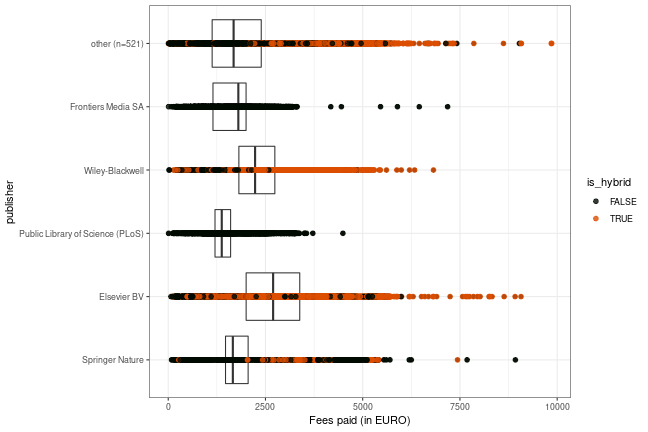
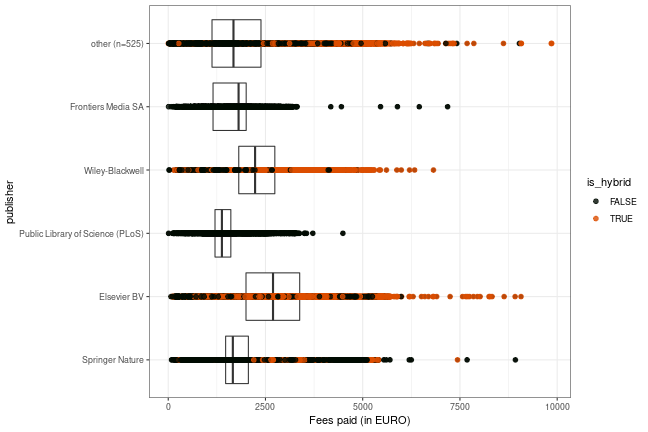
post: fu berlin apc data 2019

diff --git a/about.md b/about.md
@@ -344,13 +344,13 @@ Jisc Collections released data on APC payments made by UK higher education insti
 
 Information on both open access journal articles and open access publication of articles in toll-access journals ("hybrid") are provided.
 
-In total,  195 152 601 € for  98 575 articles were paid by the participating unviversities. Average  fee is 1 979.7 € and the median 1 783 €.
+In total,  197 673 136 € for  99 977 articles were paid by the participating unviversities. Average  fee is 1 977.2 € and the median 1 780 €.
 
 ### Open Access Journals
 
 
 
-At the moment, the dataset releases information on 56 738 articles in open access journals which charge publication fees. Total expenditure amounts to  90 563 440 €. Average  fee is 1 596.2 € and the median 1 503 €.
+At the moment, the dataset releases information on 57 990 articles in open access journals which charge publication fees. Total expenditure amounts to  92 772 838 €. Average  fee is 1 599.8 € and the median 1 504 €.
 
 View dataset on [GitHub](https://github.com/OpenAPC/openapc-de/blob/master/data/apc_de.csv).
 
@@ -365,21 +365,22 @@ View dataset on [GitHub](https://github.com/OpenAPC/openapc-de/blob/master/data/
 |Bangor University                                                    |       20|            33,800|         1,690|  1,572|
 |Bayreuth U                                                           |      211|           255,626|         1,212|  1,266|
 |Bergen University College                                            |       13|            19,984|         1,537|  1,713|
-|Bern University of Applied Sciences                                  |       11|            16,386|         1,490|  1,364|
+|Bern University of Applied Sciences                                  |       10|            14,141|         1,414|  1,357|
 |BI Norwegian Business School                                         |        4|             2,761|           690|    724|
-|Bielefeld U                                                          |      649|           885,087|         1,364|  1,396|
+|Bielefeld U                                                          |      666|           913,220|         1,371|  1,396|
 |Bochum U                                                             |      305|           459,765|         1,507|  1,576|
 |Bremen U                                                             |      634|           946,703|         1,493|  1,428|
 |Brunel University                                                    |      214|           293,529|         1,372|  1,341|
 |Cardiff University                                                   |      507|           929,040|         1,832|  1,643|
 |Chalmers University of Technology                                    |        6|             5,817|           970|  1,012|
 |Charité - Universitätsmedizin Berlin                                 |      235|           386,319|         1,644|  1,656|
-|Charles University                                                   |      434|           605,334|         1,395|  1,493|
+|Charles University                                                   |      434|           606,139|         1,397|  1,495|
 |CIRAD                                                                |       78|           119,540|         1,533|  1,507|
-|CNRS                                                                 |    1,479|         2,367,891|         1,601|  1,368|
+|CNRS                                                                 |    1,478|         2,365,566|         1,601|  1,365|
 |Commissariat à l'énergie atomique et aux énergies alternatives (CEA) |       75|           135,506|         1,807|  1,538|
 |Cranfield University                                                 |       26|            40,286|         1,549|  1,370|
 |Dalarna University                                                   |       50|            70,423|         1,408|  1,493|
+|DLR                                                                  |      110|           136,288|         1,239|  1,154|
 |Dortmund TU                                                          |       82|           102,584|         1,251|  1,391|
 |Duisburg-Essen U                                                     |      235|           320,066|         1,362|  1,276|
 |Ecole normale supérieure de Paris                                    |       16|            35,538|         2,221|  2,027|
@@ -388,10 +389,10 @@ View dataset on [GitHub](https://github.com/OpenAPC/openapc-de/blob/master/data/
 |ESPCI Paris                                                          |       10|            18,132|         1,813|  1,404|
 |Frankfurt U                                                          |      175|           302,577|         1,729|  1,630|
 |Fraunhofer-Gesellschaft Publishing Fund                              |       94|           123,235|         1,311|  1,323|
-|Free University of Bozen-Bolzano                                     |       11|             8,709|           792|    561|
+|Free University of Bozen-Bolzano                                     |       36|            50,822|         1,412|  1,435|
 |Freiburg U                                                           |      949|         1,380,528|         1,455|  1,525|
 |Fridtjof Nansen Institute                                            |        4|             5,062|         1,265|  1,303|
-|FU Berlin                                                            |      410|           604,491|         1,474|  1,570|
+|FU Berlin                                                            |      509|           742,537|         1,459|  1,567|
 |FWF - Austrian Science Fund                                          |    1,797|         3,060,336|         1,703|  1,566|
 |FZJ - ZB                                                             |      569|           794,874|         1,397|  1,302|
 |GenØk - Centre for Biosafety                                         |        5|             5,295|         1,059|  1,109|
@@ -418,22 +419,22 @@ View dataset on [GitHub](https://github.com/OpenAPC/openapc-de/blob/master/data/
 |Indiana University - Purdue University Indianapolis (IUPUI)          |      114|           166,599|         1,461|  1,362|
 |INM - Leibniz-Institut für Neue Materialien                          |        5|             5,744|         1,149|  1,305|
 |Innlandet Hospital Trust                                             |        3|             5,174|         1,725|  1,917|
-|INRA                                                                 |      124|           202,035|         1,629|  1,405|
+|INRA                                                                 |      122|           199,052|         1,632|  1,405|
 |INRIA                                                                |       77|           118,761|         1,542|  1,538|
 |INSERM                                                               |      932|         1,688,754|         1,812|  1,500|
 |Institut de recherche pour le développement (IRD)                    |       65|            87,702|         1,349|  1,316|
 |Institut für Arbeitsmarkt- und Berufsforschung                       |        1|             1,076|         1,076|  1,076|
 |Institut national polytechnique de Toulouse                          |       10|            12,710|         1,271|  1,170|
+|Institut Pasteur                                                     |       99|           193,381|         1,953|  1,848|
 |Institute of Cancer Research                                         |       20|            43,133|         2,157|  1,673|
 |Institute of Marine Research                                         |       14|            20,153|         1,440|  1,404|
-|IPN - Leibniz Kiel                                                   |       13|            14,201|         1,092|  1,092|
+|IPN - Leibniz Kiel                                                   |       19|            22,810|         1,201|  1,092|
 |IRSTEA                                                               |       21|            27,516|         1,310|  1,495|
 |IST Austria                                                          |       28|            72,505|         2,589|  1,989|
 |JGU Mainz                                                            |      536|           767,445|         1,432|  1,479|
-|Jyväskylä U                                                          |       26|            42,283|         1,626|  1,569|
 |Karlstad University                                                  |       51|            57,319|         1,124|  1,157|
 |Karolinska Institutet                                                |        8|             5,073|           634|    755|
-|Kassel U                                                             |      130|           145,386|         1,118|  1,105|
+|Kassel U                                                             |      192|           226,473|         1,180|  1,178|
 |Keele University                                                     |       19|            31,431|         1,654|  1,644|
 |King's College London                                                |      589|         1,210,026|         2,054|  1,642|
 |KIT                                                                  |      833|         1,136,712|         1,365|  1,386|
@@ -464,7 +465,7 @@ View dataset on [GitHub](https://github.com/OpenAPC/openapc-de/blob/master/data/
 |MLU Halle-Wittenberg                                                 |       77|           143,472|         1,863|  1,713|
 |Molde University College                                             |        3|             1,876|           625|    584|
 |MPG                                                                  |    3,674|         4,987,088|         1,357|  1,207|
-|Muenchen LMU                                                         |      558|           792,468|         1,420|  1,471|
+|Muenchen LMU                                                         |      649|           955,331|         1,472|  1,529|
 |Münster U                                                            |      467|           596,568|         1,277|  1,230|
 |Museum National d'Histoire Naturelle                                 |       10|            13,753|         1,375|  1,307|
 |Nansen Environmental and Remote Sensing Center                       |        6|             5,298|           883|    775|
@@ -508,12 +509,12 @@ View dataset on [GitHub](https://github.com/OpenAPC/openapc-de/blob/master/data/
 |Swansea University                                                   |       73|           125,868|         1,724|  1,494|
 |Swedish School of Sport and Health Sciences                          |        8|            13,276|         1,660|  1,422|
 |Swedish University of Agricultural Sciences                          |      590|           791,488|         1,342|  1,338|
-|Swiss National Science Foundation (SNSF)                             |      643|         1,288,583|         2,004|  1,603|
+|Swiss National Science Foundation (SNSF)                             |    1,125|         2,351,601|         2,090|  1,696|
 |Tampere University                                                   |       56|            79,937|         1,427|  1,445|
 |TH Wildau                                                            |       12|            14,275|         1,190|  1,288|
 |The Open University                                                  |        8|            16,623|         2,078|  1,856|
 |TIB                                                                  |        1|             1,619|         1,619|  1,619|
-|TiHo Hannover                                                        |      218|           315,780|         1,449|  1,428|
+|TiHo Hannover                                                        |      326|           491,027|         1,506|  1,518|
 |Trier U                                                              |       26|            40,483|         1,557|  1,572|
 |TU Berlin                                                            |       90|           118,840|         1,320|  1,382|
 |TU Braunschweig                                                      |       97|           116,277|         1,199|  1,232|
@@ -521,7 +522,7 @@ View dataset on [GitHub](https://github.com/OpenAPC/openapc-de/blob/master/data/
 |TU Clausthal                                                         |       31|            33,085|         1,067|  1,044|
 |TU Darmstadt                                                         |       75|            92,365|         1,232|  1,307|
 |TU Dresden                                                           |      548|           684,661|         1,249|  1,386|
-|TU Ilmenau                                                           |       55|            66,566|         1,210|  1,285|
+|TU Ilmenau                                                           |       76|            96,118|         1,265|  1,418|
 |TU Muenchen                                                          |    1,224|         1,663,430|         1,359|  1,479|
 |TU Wien                                                              |       79|           106,006|         1,342|  1,333|
 |Tuebingen U                                                          |      789|         1,114,397|         1,412|  1,442|
@@ -530,7 +531,7 @@ View dataset on [GitHub](https://github.com/OpenAPC/openapc-de/blob/master/data/
 |Ulm U                                                                |      314|           516,999|         1,646|  1,569|
 |Umeå University                                                      |       10|            10,604|         1,060|    755|
 |Uni Research                                                         |       19|            28,070|         1,477|  1,474|
-|Universitat de Barcelona                                             |      464|           443,269|           955|    899|
+|Universitat de Barcelona                                             |      563|           538,552|           957|    942|
 |Université Claude Bernard Lyon 1                                     |       30|            57,493|         1,916|  1,723|
 |Université Clermont Auvergne                                         |       81|           134,931|         1,666|  1,370|
 |Université d'Angers                                                  |        8|            11,313|         1,414|  1,779|
@@ -581,6 +582,7 @@ View dataset on [GitHub](https://github.com/OpenAPC/openapc-de/blob/master/data/
 |University of Gothenburg                                             |      554|           847,167|         1,529|  1,409|
 |University of Huddersfield                                           |       26|            34,920|         1,343|  1,532|
 |University of Hull                                                   |       15|            22,353|         1,490|  1,437|
+|University of Jyväskylä                                              |       63|           104,810|         1,664|  1,636|
 |University of Kent                                                   |       21|            42,591|         2,028|  1,573|
 |University of Leeds                                                  |      166|           317,217|         1,911|  1,579|
 |University of Leicester                                              |       52|            86,831|         1,670|  1,652|
@@ -622,7 +624,7 @@ View dataset on [GitHub](https://github.com/OpenAPC/openapc-de/blob/master/data/
 
 
 In many toll-access journals some of the articles are open access after a fee has been paid. This model is often called "hybrid open access".
-The dataset covers 41 837 hybrid open access articles. Total expenditure amounts to  104 589 160 €. Average  fee is 2 499.9 € and the median 2 454 €.
+The dataset covers 41 987 hybrid open access articles. Total expenditure amounts to  104 900 298 €. Average  fee is 2 498.4 € and the median 2 454 €.
 
 The following institutions have contributed its expenditures for hybrid open access.
 
@@ -638,19 +640,20 @@ The following institutions have contributed its expenditures for hybrid open acc
 |Brunel University                                                    |      415|           895,868|         2,159|  2,224|
 |Cardiff University                                                   |    1,044|         2,591,509|         2,482|  2,545|
 |Chalmers University of Technology                                    |        7|            16,723|         2,389|  2,429|
-|Charles University                                                   |       55|           112,032|         2,037|  2,271|
+|Charles University                                                   |       54|           111,515|         2,065|  2,292|
 |CIRAD                                                                |       24|            44,290|         1,845|  2,200|
 |CNRS                                                                 |      250|           561,237|         2,245|  2,200|
 |Commissariat à l'énergie atomique et aux énergies alternatives (CEA) |       12|            28,769|         2,397|  2,640|
 |Cranfield University                                                 |      131|           377,858|         2,884|  3,231|
 |Dalarna University                                                   |       40|            95,962|         2,399|  2,435|
+|DLR                                                                  |       51|            94,309|         1,849|  1,998|
 |Dortmund TU                                                          |        1|             1,581|         1,581|  1,581|
 |Duisburg-Essen U                                                     |        9|            23,845|         2,649|  2,618|
 |Ecole normale supérieure de Paris                                    |        4|            17,077|         4,269|  2,909|
 |Edinburgh Napier University                                          |        1|             3,155|         3,155|  3,155|
 |Erlangen Nuernberg U                                                 |        1|             1,638|         1,638|  1,638|
 |ESPCI Paris                                                          |        3|             5,574|         1,858|  2,160|
-|Free University of Bozen-Bolzano                                     |       12|            26,122|         2,177|  2,396|
+|Free University of Bozen-Bolzano                                     |       21|            47,214|         2,248|  2,489|
 |FU Berlin                                                            |        2|             3,285|         1,643|  1,643|
 |FWF - Austrian Science Fund                                          |    4,197|        10,385,212|         2,474|  2,618|
 |FZJ - ZB                                                             |      127|           261,027|         2,055|  2,000|
@@ -674,11 +677,11 @@ The following institutions have contributed its expenditures for hybrid open acc
 |INSERM                                                               |      145|           339,548|         2,342|  2,350|
 |Institut de recherche pour le développement (IRD)                    |        5|             6,375|         1,275|    440|
 |Institut für Arbeitsmarkt- und Berufsforschung                       |       10|            25,816|         2,582|  2,618|
+|Institut Pasteur                                                     |       24|            50,985|         2,124|  2,370|
 |Institute of Cancer Research                                         |       67|           206,220|         3,078|  2,811|
-|IPN - Leibniz Kiel                                                   |       54|           123,170|         2,281|  2,388|
+|IPN - Leibniz Kiel                                                   |       72|           165,218|         2,295|  2,479|
 |IST Austria                                                          |       12|            33,408|         2,784|  2,871|
 |JGU Mainz                                                            |        1|             1,792|         1,792|  1,792|
-|Jyväskylä U                                                          |       31|            32,655|         1,053|    860|
 |Karlstad University                                                  |       41|            73,663|         1,797|  1,738|
 |Karolinska Institutet                                                |       24|            37,567|         1,565|  1,774|
 |Keele University                                                     |       25|            65,045|         2,602|  2,644|
@@ -723,10 +726,10 @@ The following institutions have contributed its expenditures for hybrid open acc
 |Swansea University                                                   |      202|           532,477|         2,636|  2,634|
 |Swedish School of Sport and Health Sciences                          |        3|             7,110|         2,370|  2,500|
 |Swedish University of Agricultural Sciences                          |      288|           700,640|         2,433|  2,480|
-|Swiss National Science Foundation (SNSF)                             |       73|           148,000|         2,027|  2,126|
+|Swiss National Science Foundation (SNSF)                             |       92|           210,443|         2,287|  2,213|
 |Tampere University                                                   |       30|            61,063|         2,035|  2,262|
 |The Open University                                                  |       27|            66,541|         2,464|  2,852|
-|TiHo Hannover                                                        |       13|            29,300|         2,254|  2,103|
+|TiHo Hannover                                                        |       19|            35,710|         1,879|  1,726|
 |TU Chemnitz                                                          |        1|               100|           100|    100|
 |TU Clausthal                                                         |       10|            17,076|         1,708|  1,565|
 |TU Muenchen                                                          |       15|            18,136|         1,209|  1,209|
@@ -774,6 +777,7 @@ The following institutions have contributed its expenditures for hybrid open acc
 |University of Gothenburg                                             |      378|           940,750|         2,489|  2,532|
 |University of Huddersfield                                           |       80|           143,645|         1,796|  1,856|
 |University of Hull                                                   |       26|            65,590|         2,523|  2,649|
+|University of Jyväskylä                                              |       56|            68,797|         1,229|    860|
 |University of Kent                                                   |       71|           151,256|         2,130|  2,046|
 |University of Leeds                                                  |      308|           808,066|         2,624|  2,631|
 |University of Leicester                                              |      110|           283,437|         2,577|  2,326|
@@ -802,7 +806,7 @@ The following institutions have contributed its expenditures for hybrid open acc
 |Uppsala University                                                   |      361|           925,100|         2,563|  2,521|
 |Virginia Tech                                                        |       17|            23,968|         1,410|  1,271|
 |Weierstrass Institute for Applied Analysis and Stochastics           |        2|             4,870|         2,435|  2,435|
-|Wellcome Trust                                                       |    4,358|        11,663,763|         2,676|  2,611|
+|Wellcome Trust                                                       |    4,357|        11,661,989|         2,677|  2,611|
 
 ## Use of external sources
 

diff --git a/_posts/2020-02-18-fuberlin.md b/_posts/2020-02-18-fuberlin.md
@@ -1,0 +1,67 @@
+---
+layout:     post
+author:     Christoph Broschinski
+author_lnk: https://github.com/cbroschinski
+title:      Freie Universität Berlin reports its 2019 APC expenditures
+date:       2020-02-18 09:00:00
+summary:    
+categories: [general, openAPC]
+comments: true
+---
+
+
+
+The [Freie Universität Berlin](http://www.fu-berlin.de/en) has updated its APC expenditures, providing cost data for the 2019 period.
+
+The [University Library of Freie Universität Berlin](http://www.ub.fu-berlin.de/en/) is in charge of the University's [Open Access Publication Fund](http://www.fu-berlin.de/en/sites/open_access/finanzierung/publikationsfonds/index.html), which received support by the DFG under its [Open-Access Publishing Programme](http://www.dfg.de/en/research_funding/programmes/infrastructure/lis/funding_opportunities/open_access/) until 2019.
+
+Contact person is [Birgit Schlegel](mailto:birgit.schlegel@fu-berlin.de).
+
+## Cost data
+
+
+
+The new data set covers publication fees for 106 articles. Total expenditure amounts to 149 124€ and the average fee is 1 407€.
+
+
+|                                    | Articles| Fees paid in EURO| Mean Fee paid|
+|:-----------------------------------|--------:|-----------------:|-------------:|
+|MDPI AG                             |       35|             45830|          1309|
+|Frontiers Media SA                  |       22|             35134|          1597|
+|Springer Nature                     |       10|             17424|          1742|
+|Public Library of Science (PLoS)    |        7|             12628|          1804|
+|Copernicus GmbH                     |        4|              5266|          1317|
+|Elsevier BV                         |        3|              3332|          1111|
+|Informa UK Limited                  |        3|              4552|          1517|
+|Oxford University Press (OUP)       |        3|              3428|          1143|
+|Pensoft Publishers                  |        3|              3119|          1040|
+|Akademiai Kiado Zrt.                |        2|              1428|           714|
+|Kritische Geographie Berlin e.V.    |        2|              1666|           833|
+|Acta Dermato-Venereologica          |        1|              1666|          1666|
+|Bern Open Publishing                |        1|               547|           547|
+|BMJ                                 |        1|              1696|          1696|
+|Cambridge University Press (CUP)    |        1|              1071|          1071|
+|Cogitatio                           |        1|               857|           857|
+|eLife Sciences Publications, Ltd    |        1|              1905|          1905|
+|Gesellschaft für Erdkunde zu Berlin |        1|               476|           476|
+|Ivyspring International Publisher   |        1|              1978|          1978|
+|PAGEPress Publications              |        1|              1012|          1012|
+|PeerJ                               |        1|              1257|          1257|
+|Schweizerbart                       |        1|              1568|          1568|
+|The Royal Society                   |        1|              1285|          1285|
+
+## Overview
+
+With the recent contribution included, the overall APC data for the FU Berlin now looks as follows:
+
+### Fees paid per publisher (in EURO)
+
+![plot of chunk tree_fuberlin_2020_02_18_full](/figure/tree_fuberlin_2020_02_18_full-1.png)
+
+###  Average costs per year (in EURO)
+
+![plot of chunk box_fuberlin_2020_02_18_year_full](/figure/box_fuberlin_2020_02_18_year_full-1.png)
+
+###  Average costs per publisher (in EURO)
+
+![plot of chunk box_fuberlin_2020_02_18_publisher_full](/figure/box_fuberlin_2020_02_18_publisher_full-1.png)
